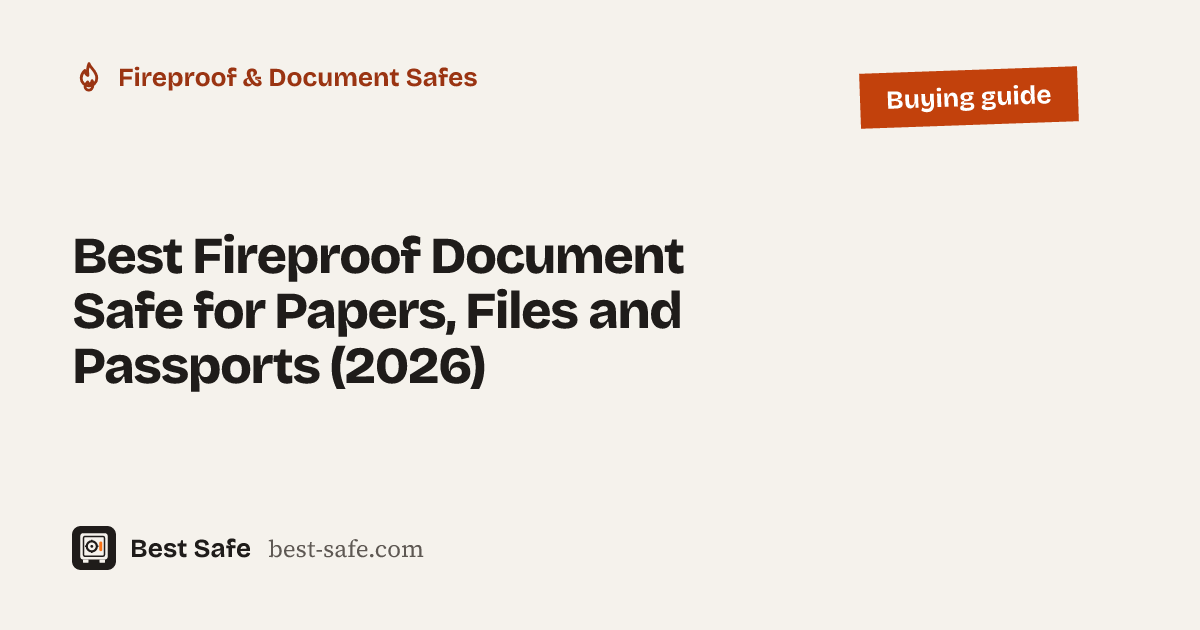
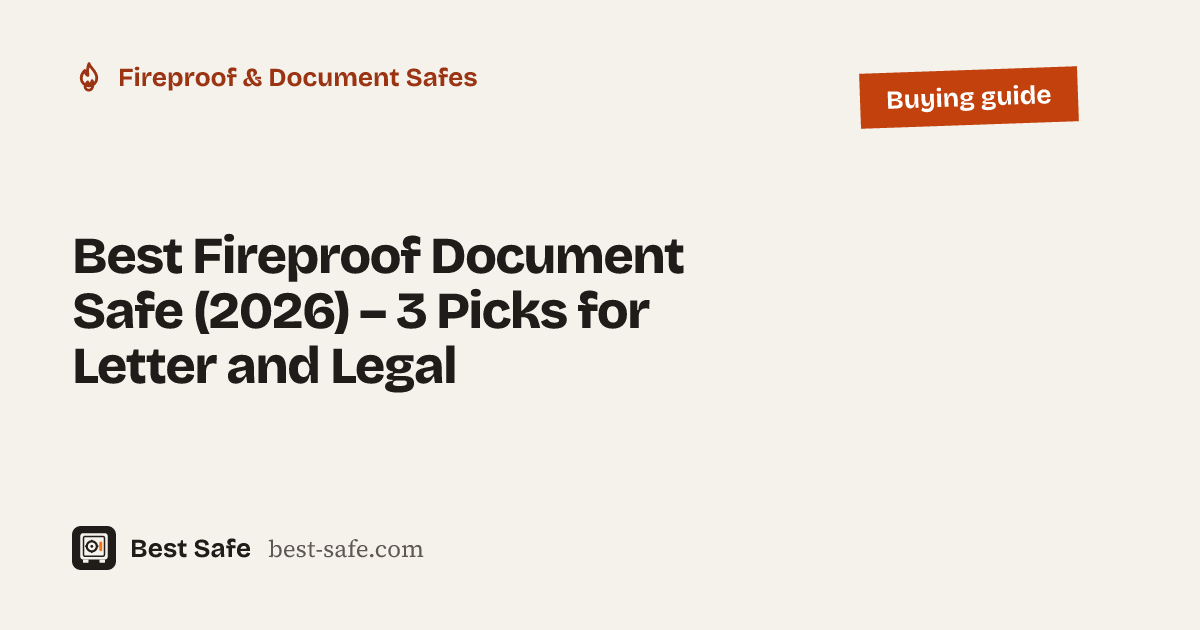
Featured images and hero alt text use the new titles
Re-renders every English post's hero and featured image from its current title (the
old images still showed the colon titles) and writes alt text as 'Title – Site
guide' instead of 'Title: Site guide'; translation alt text drops colons too.

Claude-Session: https://claude.ai/code/session_01TD7XAAbqJRP3B3BmqRVTG4

Changed region(s): [[0.0617, 0.4524, 0.5858, 0.6333]]

diff --git a/src/content/blog/best-biometric-gun-safe.md b/src/content/blog/best-biometric-gun-safe.md
@@ -1,6 +1,6 @@
 ---
-title: 'Best Biometric Gun Safe 2026 – 6 Fingerprint Picks and a Recall Check'
-seoTitle: 'Best Biometric Gun Safe (2026) – 6 Picks and a Recall Check'
+title: Best Biometric Gun Safe 2026 – 6 Fingerprint Picks and a Recall Check
+seoTitle: Best Biometric Gun Safe (2026) – 6 Picks and a Recall Check
 description: >-
   The best biometric gun safe for your nightstand, car or rifles: 6 fingerprint
   safes compared on reader reliability, backup entry, power and owner
@@ -435,8 +435,8 @@ faqs:
 author: editorial-team
 heroImage: /images/featured/best-biometric-gun-safe.png
 heroAlt: >-
-  Best Biometric Gun Safe (2026): 6 Fingerprint Safes Compared: Best Safe buying
-  guide
+  Best Biometric Gun Safe 2026 – 6 Fingerprint Picks and a Recall Check – Best
+  Safe buying guide
 related:
   - best-fireproof-safe
   - best-pistol-safe

diff --git a/src/content/blog/best-fireproof-safe.md b/src/content/blog/best-fireproof-safe.md
@@ -1,6 +1,6 @@
 ---
-title: 'Best Fireproof Safe for Home (2026) – 6 UL-Rated Picks Compared'
-seoTitle: 'Best Fireproof Safe (2026) – 6 UL-Rated Picks for Home'
+title: Best Fireproof Safe for Home (2026) – 6 UL-Rated Picks Compared
+seoTitle: Best Fireproof Safe (2026) – 6 UL-Rated Picks for Home
 description: >-
   The best fireproof safe for most homes is the SentrySafe SFW123GDC. We compare
   6 UL-rated safes on fire and water ratings, lock backup and real capacity.
@@ -522,7 +522,7 @@ products:
           url: 'https://pickstead.com/guides/sentrysafe-chw20221-fire-chest-review/'
 heroImage: /images/featured/best-fireproof-safe.png
 heroAlt: >-
-  Best Fireproof Safe for Home (2026): 6 UL-Rated Picks Compared: Best Safe
+  Best Fireproof Safe for Home (2026) – 6 UL-Rated Picks Compared – Best Safe
   buying guide
 ---
 

diff --git a/src/content/blog/best-fireproof-document-safe.md b/src/content/blog/best-fireproof-document-safe.md
@@ -1,6 +1,6 @@
 ---
-title: 'Best Fireproof Document Safe (2026) – 3 Picks for Letter and Legal'
-seoTitle: 'Best Fireproof Document Safe (2026) – 3 UL Fire-Rated Picks'
+title: Best Fireproof Document Safe (2026) – 3 Picks for Letter and Legal
+seoTitle: Best Fireproof Document Safe (2026) – 3 UL Fire-Rated Picks
 description: >-
   The best fireproof document safe for deeds, passports and file folders: 3
   UL-rated picks compared on fire and water ratings, letter vs legal fit and
@@ -323,7 +323,7 @@ faqs:
 author: editorial-team
 heroImage: /images/featured/best-fireproof-document-safe.png
 heroAlt: >-
-  Best Fireproof Document Safe for Papers, Files and Passports (2026): Best Safe
+  Best Fireproof Document Safe (2026) – 3 Picks for Letter and Legal – Best Safe
   buying guide
 related:
   - best-fireproof-safe

diff --git a/src/content/blog/best-pistol-safe.md b/src/content/blog/best-pistol-safe.md
@@ -1,6 +1,6 @@
 ---
-title: 'Best Pistol Safe 2026 – 4 Quick-Access Picks for Home and Travel'
-seoTitle: 'Best Pistol Safe (2026) – 4 Picks With Reliable Backup Entry'
+title: Best Pistol Safe 2026 – 4 Quick-Access Picks for Home and Travel
+seoTitle: Best Pistol Safe (2026) – 4 Picks With Reliable Backup Entry
 description: >-
   The best pistol safe for your nightstand, desk or car: 4 picks compared on
   lock type, backup entry, steel gauge, handgun fit and bolt-down, plus owner
@@ -365,7 +365,7 @@ related:
   - best-fireproof-document-safe
 heroImage: /images/featured/best-pistol-safe.png
 heroAlt: >-
-  Best Pistol Safe 2026: 4 Quick-Access Picks for Home and Travel: Best Safe
+  Best Pistol Safe 2026 – 4 Quick-Access Picks for Home and Travel – Best Safe
   buying guide
 ---
 
